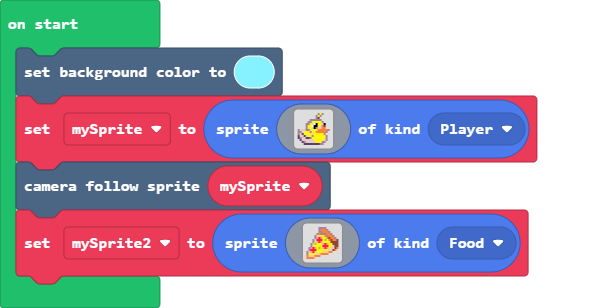
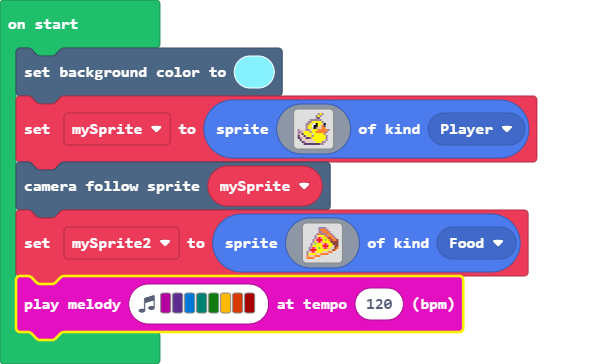
puse musica a mi estilo

diff --git a/main.ts b/main.ts
@@ -36,3 +36,4 @@ let mySprite2 = sprites.create(img`
     4 d d d 4 4 4 . . . . . . . . . 
     4 4 4 4 . . . . . . . . . . . . 
     `, SpriteKind.Food)
+music.playMelody("C D E F G A B C5 ", 120)
